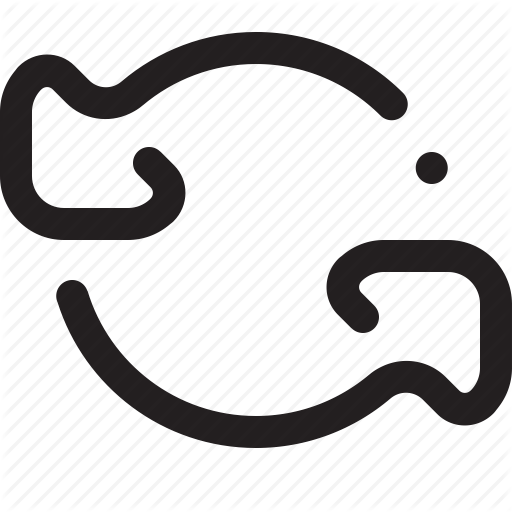
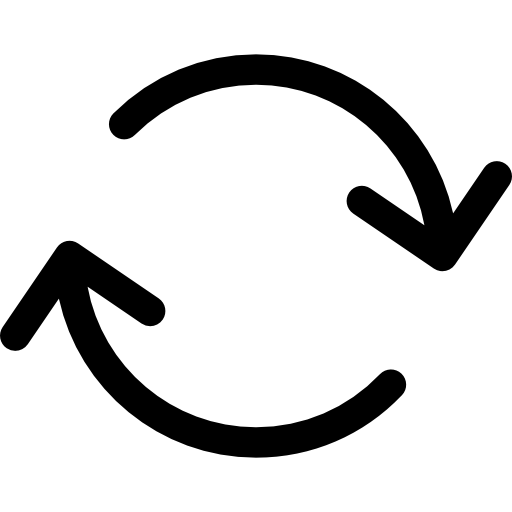
changed images of spinner and screen rotation to transparent photos made the photos lighter because it was too bold before

Changed region(s): [[0.0, 0.0625, 1.0, 0.9062]]

diff --git a/style.css b/style.css
@@ -308,6 +308,7 @@ button{
 .bottom-half{
     height:40%;
     display:flex;
+    position:relative;
 }
 
 .images-container{
@@ -609,23 +610,24 @@ button{
 
 .spinner {
     position: absolute;
+    opacity: .5;
 }
 
 .spinner img {
     height: 100%;
     animation: spinn-reverse 1s infinite linear;
+    object-fit: contain;
+    width:100%;
 }
 
 .image-spinner {
-    height: 60%;
-    top: 8%;
-    left: 12%;
+    height: 80%;
 }
 
 .apps-spinner {
-    height: 20%;
-    top: 70%;
-    right: 14%;
+    height: 100%;
+    width: 40%;
+    right: 0;
 }
 
 .hidden {

diff --git a/index.html b/index.html
@@ -98,7 +98,8 @@
             <div class="image-wrapper"></div>
             <div class="app-container">
                 <div class="arrow"><button id="scroll-left"><i class="fas fa-chevron-left"></i></button></div>
-                <div class="apps"></div>
+                <div class="apps">
+                </div>
                 <div class="arrow"><button id="scroll-right"><i class="fas fa-chevron-right"></i></button></div>
             </div>
             <div class="spinner apps-spinner hidden">
